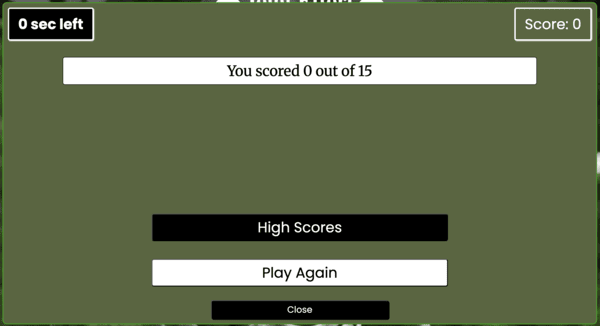
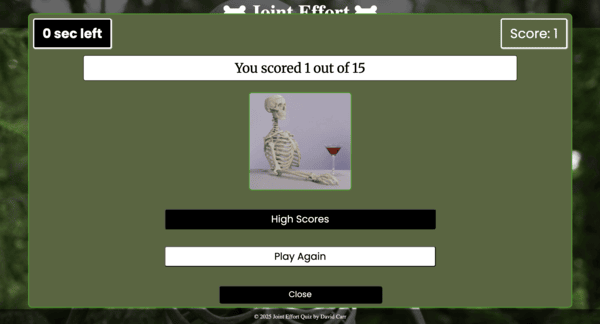
Replaced images in readme.md

diff --git a/README.md b/README.md
@@ -332,7 +332,7 @@ JavaScript, HTML and CSS
 ## Credits
 
 ### Media 
-The background image for the homepage was taken from [Pexels](https://www.pexels.com/photo/selective-focus-photography-of-skeleton-1528375/).
+The background image for the homepage and image in the play now modal were taken from [Pexels](https://www.pexels.com/photo/selective-focus-photography-of-skeleton-1528375/).
 
 ### Features
 
